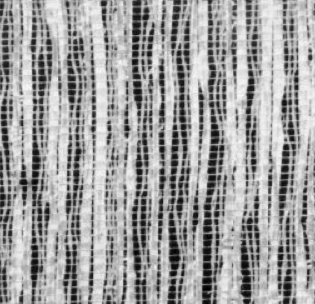
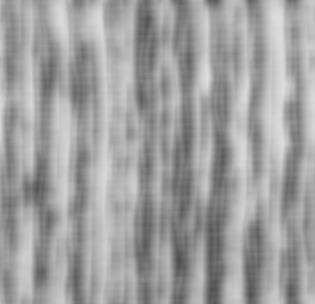
First finish

diff --git a/HW1/src/question4.py b/HW1/src/question4.py
@@ -7,7 +7,7 @@ from mylib.ffiltering import gaussian_filter
 src_img = load_img_2D('test1.png')
 
 # Applying Gaussian filter with the given sigma
-out_img = gaussian_filter(src_img, 0.6)
+out_img = gaussian_filter(src_img, 9)
 
 # Output
 save_img_from_array(out_img.astype(np.uint8), out_name = 'glp_out.png')

diff --git a/HW1/src/mylib/ffiltering.py b/HW1/src/mylib/ffiltering.py
@@ -30,5 +30,7 @@ def gaussian_filter(source_image, sigma = 0.2):
     fft_filter_func = np.fft.fft2(g_func)
 
     out = np.multiply(fft_src_img, fft_filter_func)
+    out = np.fft.ifft2(out)
+    out = out.real
 
-    return np.fft.ifft2(out)
+    return out
